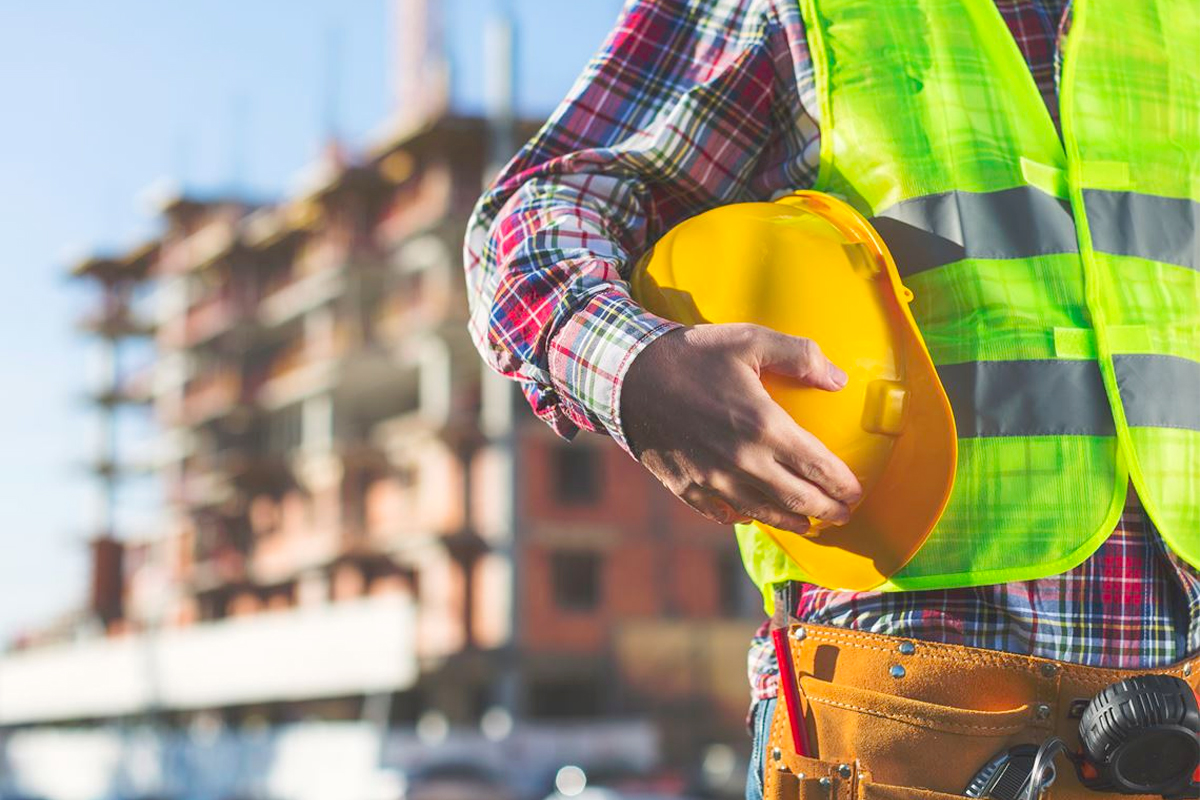
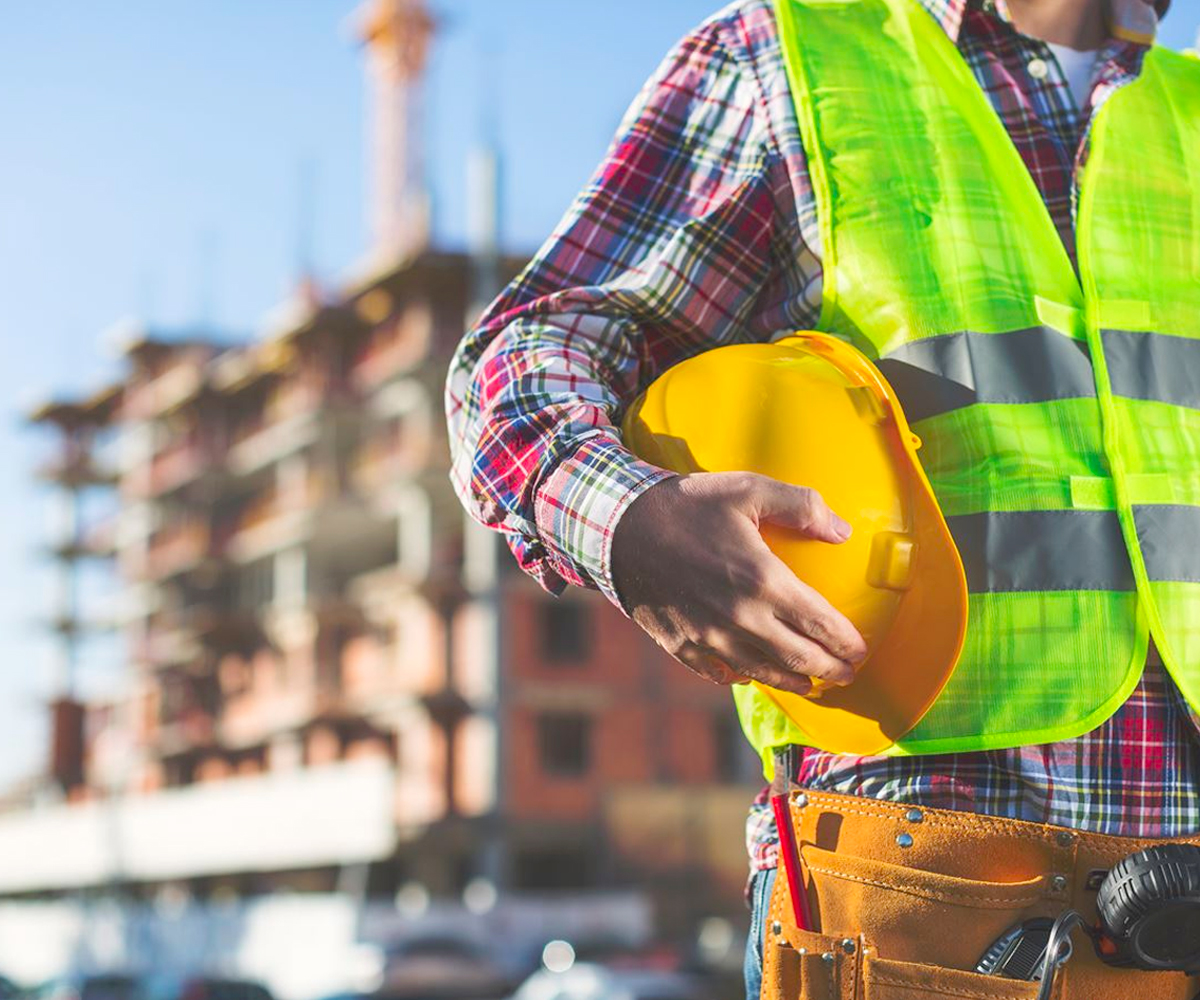
Last Changes
Se agregó el link de un teléfono, se modificó el tamaño de la imagen 'first'

diff --git a/index.html b/index.html
@@ -205,14 +205,16 @@
                         <div class="col-sm-12">
                             <h4 class="mb-0" style="color: var(--primary)">Get the best rates now!</h4>
                             <br>
-                            <div class="d-flex align-items-center">
-                                <div class="flex-shrink-0 btn-lg-square rounded-circle bg-primary">
-                                    <i class="fa fa-phone-alt text-white"></i>
+                            <a href="tel:+16197771120" class="btnphone">    
+                            <div class="d-flex">
+                                <div class="btn-square rounded-circle bg-primary mb-4 btn_contact" style="width: 70px; height: 70px;">
+                                    <i class="fa fa-phone-alt fa-2x text-white"></i>
                                 </div>
                                 <div class="ms-3">
-                                    <h2 class="mb-0">(619) 777 1120</h2>
+                                    <h3 class="mb-2 data-contact" style="margin-top: 15px;">+619 777 1120</h3>
                                 </div>
                             </div>
+                        </a>
                         </div>
                     </div>
                 </div>
